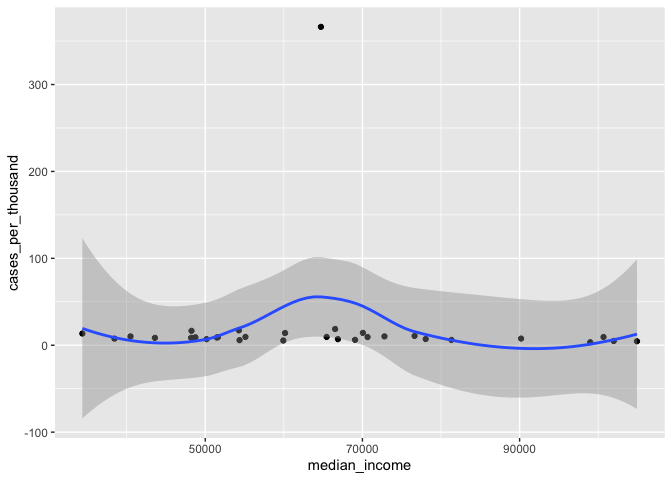
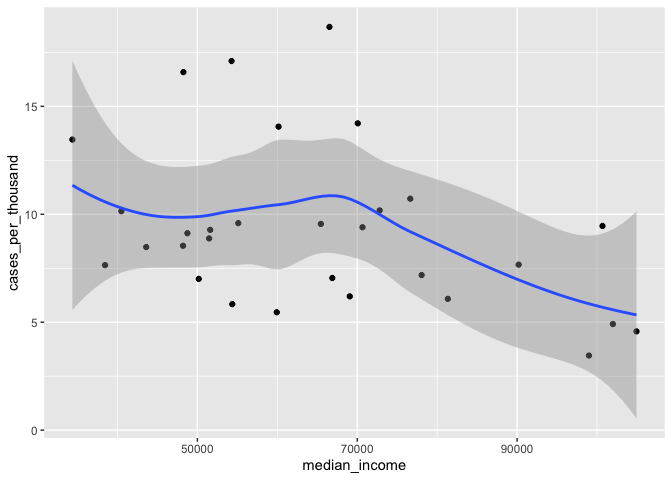
Excluded a single outlier where something is clearly off about the data

diff --git a/DeKalb_by_Zip.md b/DeKalb_by_Zip.md
@@ -129,7 +129,9 @@ dekalb <- dekalb %>%
 
 dekalb <- dekalb %>%
   inner_join(zcta_pop) %>%
-  mutate(cases_per_thousand = current_count / (total_population / 1000))
+  mutate(cases_per_thousand = current_count / (total_population / 1000)) %>%
+  #something weird is going in with 30350. Let's exclude it
+  filter(ZIP != "30350")
 ```
 
     ## Joining, by = "ZIP"
@@ -159,8 +161,11 @@ ggplot(data = dekalb,
 
 Before I corrected the data to account for ZCTAs not falling entirely
 within the county, it seemed like there was a correlation between median
-income and COVID-19, but I was wrong\! But let’s go ahead and fit the
-data to a linear model anyway (since it’s already done).
+income and COVID-19, but I made the adjustments and I looked like I was
+wrong. However, when I exclude a single ZIP Code that looks like there’s
+something funny about it (30350), there does seem to be something of a
+pattern, even if it’s much weaker than I had originally thought. Let’s
+go ahead and fit the data to a linear model anyway.
 
 ``` r
 #It looks like there's a correlation. Let's try modeling it
@@ -175,15 +180,39 @@ summary(mod_covid)
     ## 
     ## Residuals:
     ##    Min     1Q Median     3Q    Max 
-    ## -15.95 -13.72 -12.74  -9.59 345.44 
+    ## -4.304 -2.148 -1.141  1.736  9.435 
     ## 
     ## Coefficients:
-    ##                 Estimate Std. Error t value Pr(>|t|)
-    ## (Intercept)    2.644e+01  4.180e+01   0.632    0.532
-    ## median_income -8.557e-05  6.163e-04  -0.139    0.891
+    ##                 Estimate Std. Error t value Pr(>|t|)    
+    ## (Intercept)    1.414e+01  2.277e+00   6.210 1.04e-06 ***
+    ## median_income -7.352e-05  3.352e-05  -2.194   0.0367 *  
+    ## ---
+    ## Signif. codes:  0 '***' 0.001 '**' 0.01 '*' 0.05 '.' 0.1 ' ' 1
     ## 
-    ## Residual standard error: 65.3 on 29 degrees of freedom
-    ## Multiple R-squared:  0.0006643,  Adjusted R-squared:  -0.0338 
-    ## F-statistic: 0.01928 on 1 and 29 DF,  p-value: 0.8905
+    ## Residual standard error: 3.551 on 28 degrees of freedom
+    ## Multiple R-squared:  0.1467, Adjusted R-squared:  0.1162 
+    ## F-statistic: 4.813 on 1 and 28 DF,  p-value: 0.03672
 
-That confirms there’s nothing there\!
+So it looks like there’s a correlation, but it’s not as strong as I had
+thought. Let’s go ahead and make a nice chart to communicate these
+results.
+
+``` r
+#Now let's make a prettier plot to communicate these results
+
+ggplot(data = dekalb,
+       mapping = aes(median_income, cases_per_thousand)) +
+  geom_point() +
+  geom_smooth(mapping = aes(),
+              method = "lm",
+              formula = y ~ x) +
+  geom_text_repel(aes(label = ZIP), alpha = .6) +
+  labs(title = "Geographical Spread of COVID-19 in DeKalb County",
+       subtitle = "Lower Median Income Associated with Higher Rates",
+       caption = "Sources: DeKalb County Board of Health, U.S. Census Bureau",
+       x = "Median Income by ZIP Code",
+       y = "COVID-19 Cases per Thousand"
+  )
+```
+
+![](DeKalb_by_Zip_files/figure-gfm/unnamed-chunk-6-1.png)<!-- -->

diff --git a/README.md b/README.md
@@ -6,4 +6,4 @@ The first product of this project is an [R Markdown document](https://github.com
 
 The second product of this project is a [Shiny web app](https://jamesphare.shinyapps.io/COVID_by_county/), which visualizes new case and death data for the entire United States, with a focus on county-level data in the context of state and national data.
 
-The third product of this project was [an exploration](https://github.com/jamesphare/metro_atlanta_covid/blob/master/DeKalb_by_Zip.md) of the relation between median income by ZIP Code and cases of COVID-19 in DeKalb County, Georgia. My initial analysis seemed to indicate a strong relationship, but when I adjusted to account for ZIP Codes that did not fall entirely within the county limits, this apparent relationship disappered.
+The third product of this project was [an exploration](https://github.com/jamesphare/metro_atlanta_covid/blob/master/DeKalb_by_Zip.md) of the relation between median income by ZIP Code and cases of COVID-19 in DeKalb County, Georgia. My initial analysis seemed to indicate a strong relationship, but when I adjusted to account for ZIP Codes that did not fall entirely within the county limits, this apparent relationship became much weaker (although still significant).
